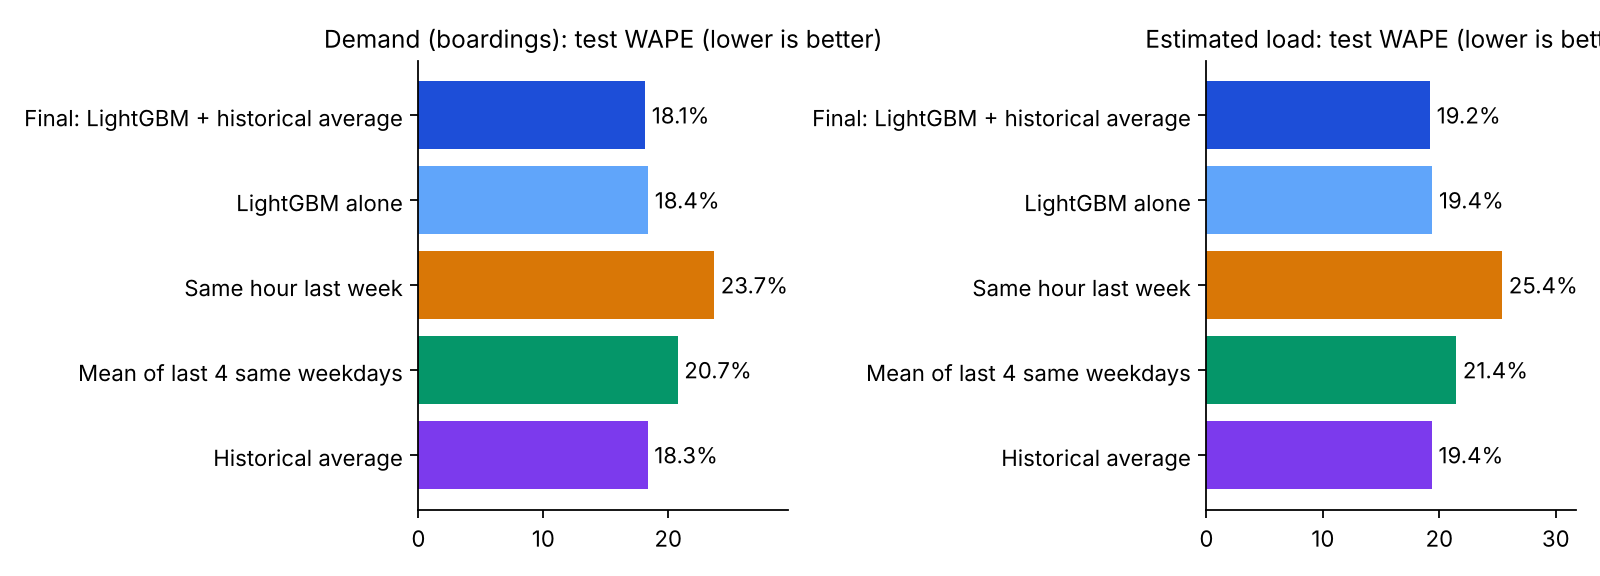
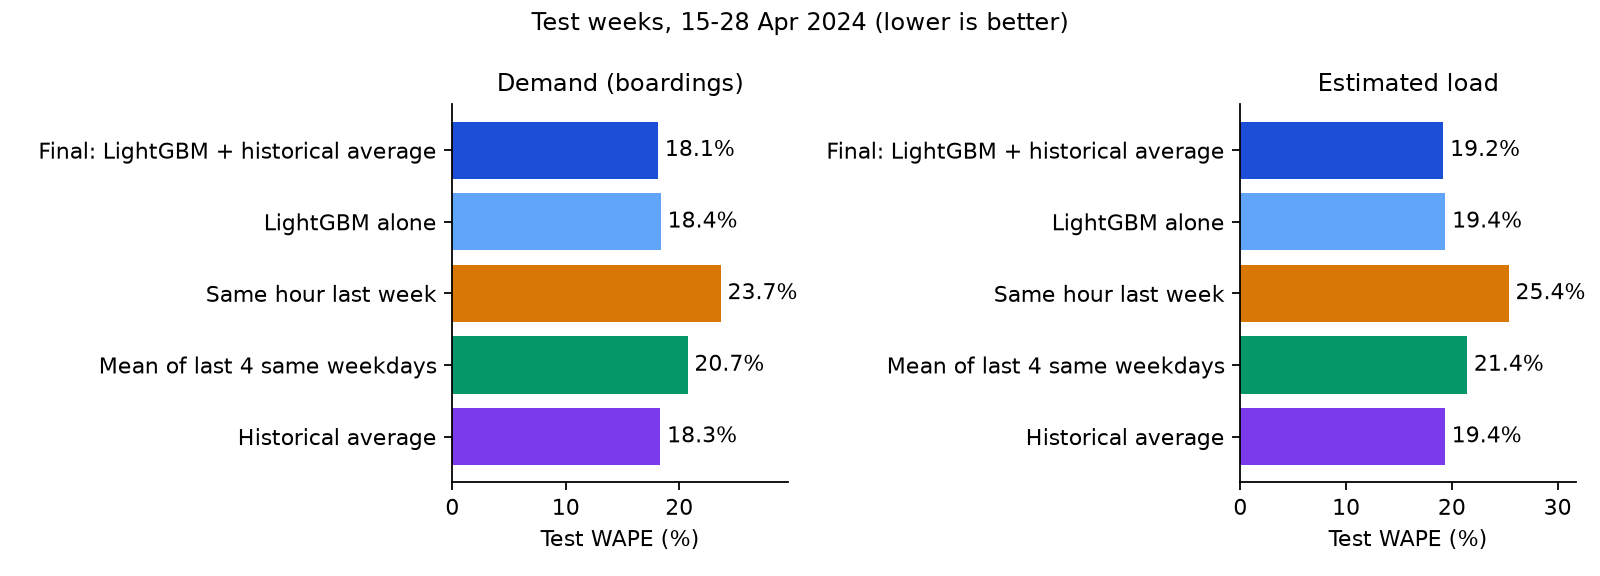
Test WAPE figure: stop the right panel title being cut off; label the axis
The panel titles were clipped at the figure edge. Titles are shorter, a shared heading says lower is better, and both axes say Test WAPE (%). Regenerated from the committed metrics; RESULTS.md and planning.json are byte-identical.

Claude-Session: https://claude.ai/code/session_013bHKiVzmKY95kxUDyJv1Da

diff --git a/src/transit/report.py b/src/transit/report.py
@@ -60,9 +60,11 @@ def fig_wape(metrics: dict) -> None:
         vals = [t[k]["wape"] * 100 for k in ORDER]
         bars = ax.barh([NAMES[k] for k in ORDER][::-1], vals[::-1], color=[COL[k] for k in ORDER][::-1])
         ax.bar_label(bars, fmt="%.1f%%", padding=3)
-        ax.set_title(f"{title}: test WAPE (lower is better)", fontsize=11)
+        ax.set_title(title, fontsize=11)
+        ax.set_xlabel("Test WAPE (%)")
         ax.set_xlim(0, max(vals) * 1.25)
         ax.spines[["top", "right"]].set_visible(False)
+    fig.suptitle("Test weeks, 15-28 Apr 2024 (lower is better)", fontsize=11)
     fig.tight_layout()
     fig.savefig(FIG / "test_wape.png", dpi=160)
     plt.close(fig)
